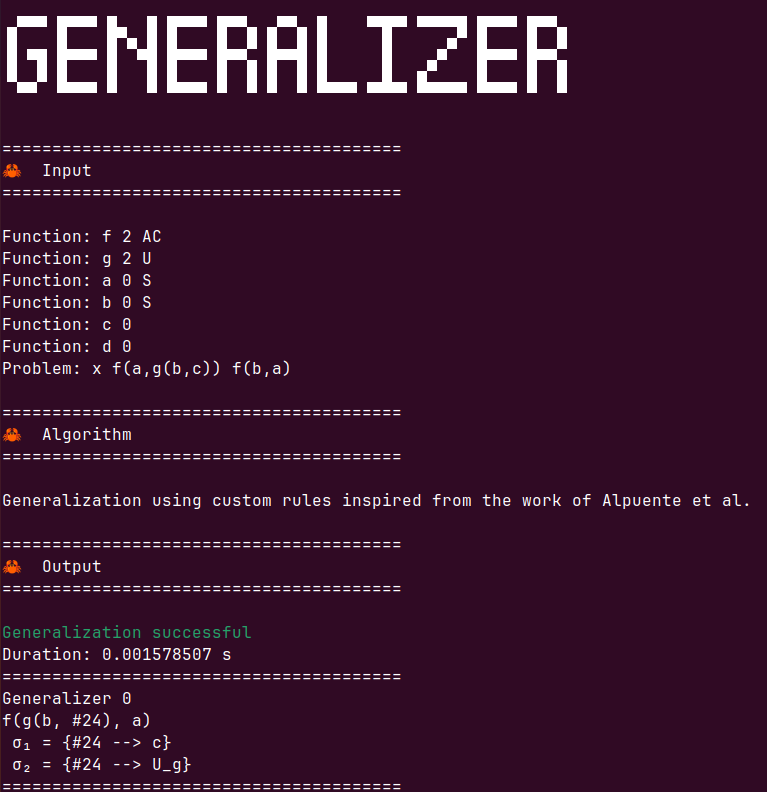
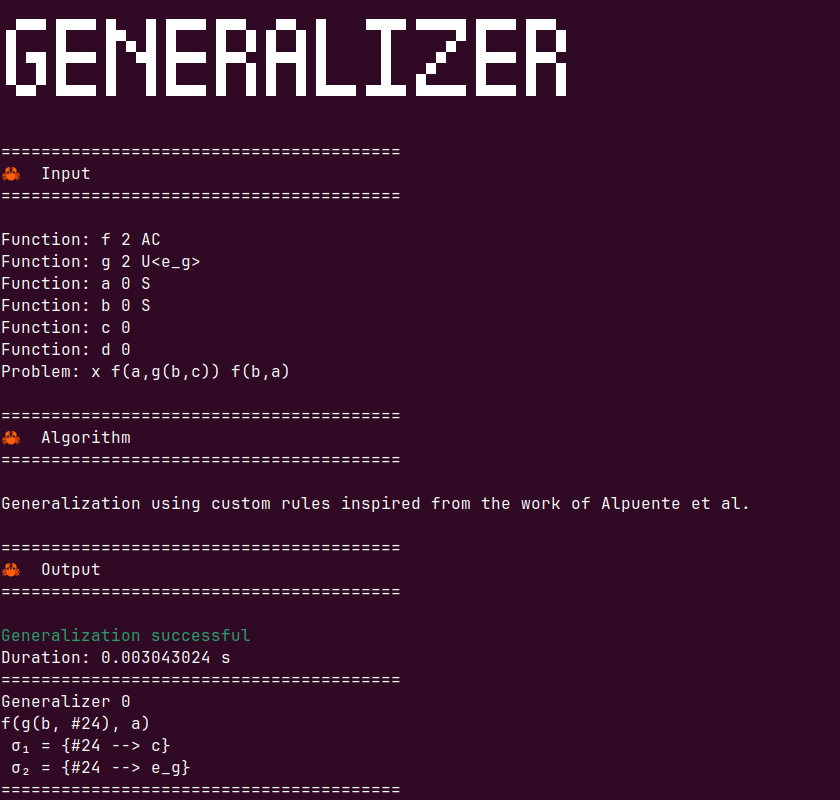
Unit element grammar update

diff --git a/src/interactions/composition/interaction_to_term.rs b/src/interactions/composition/interaction_to_term.rs
@@ -13,7 +13,7 @@ impl Interaction{
     pub fn to_term(&self,guideline: &Guideline,axioms: &Vec<Axioms>)->Term{
         match &self.clone(){
             Interaction::Empty =>{
-                let sig = FunctionSignature::new(self.to_string(),0,vec![]);
+                let sig = FunctionSignature::new(self.to_string(),0,vec![],None);
                 let f = Function::new(&sig,&vec![]);
                 Term::Function(f)
             },
@@ -21,7 +21,7 @@ impl Interaction{
 
                 let label = format!("Vp({},{})",a1.action_label(),a2.action_label());
 
-                let sig = FunctionSignature::new(label,0,vec![]);
+                let sig = FunctionSignature::new(label,0,vec![],None);
                 let f = Function::new(&sig,&vec![]);
                 Term::Function(f)
             },
@@ -30,15 +30,15 @@ impl Interaction{
                 let sig = if let Some(g) = a.gate_id{
 
                     if guideline.map.contains_key(&g){
-                        FunctionSignature::new(g.to_string(),0,vec![Axioms::SpecialConst])
+                        FunctionSignature::new(g.to_string(),0,vec![Axioms::SpecialConst],None)
                     }
                     else{
-                        FunctionSignature::new(a.action_label(),0,vec![])
+                        FunctionSignature::new(a.action_label(),0,vec![],None)
                     }
 
                 }
                 else{
-                     FunctionSignature::new(a.action_label(),0,vec![])
+                     FunctionSignature::new(a.action_label(),0,vec![],None)
                 };
 
 
@@ -48,7 +48,7 @@ impl Interaction{
             Interaction::LoopS(box1)=>{
                let i1 = *box1.clone();
 
-                let loop_sig: FunctionSignature = FunctionSignature::new("loopS".to_string(), 1, vec![]);
+                let loop_sig: FunctionSignature = FunctionSignature::new("loopS".to_string(), 1, vec![],None);
 
 
                 let f = Function::new(&loop_sig, &vec![i1.to_term(&guideline,axioms)]);
@@ -60,13 +60,13 @@ impl Interaction{
                 let i2 = *box2.clone();
 
                 let seq_sig: FunctionSignature = if axioms.contains(&Axioms::A) && axioms.contains(&Axioms::U){
-                     FunctionSignature::new("seq".to_string(), 2, vec![Axioms::A, Axioms::U])
+                     FunctionSignature::new("seq".to_string(), 2, vec![Axioms::A, Axioms::U],Some("Empty".to_string()))
                 }
                 else if axioms.contains(&Axioms::A) && !axioms.contains(&Axioms::U){
-                     FunctionSignature::new("seq".to_string(), 2, vec![Axioms::A])
+                     FunctionSignature::new("seq".to_string(), 2, vec![Axioms::A],None)
                 }
                 else{
-                     FunctionSignature::new("seq".to_string(), 2, vec![])
+                     FunctionSignature::new("seq".to_string(), 2, vec![],None)
                 };
 
 
@@ -81,7 +81,14 @@ impl Interaction{
 
 
                 //let par_sig: FunctionSignature = FunctionSignature::new("par".to_string(), 2, vec![Axioms::A, Axioms::U]);
-                let par_sig: FunctionSignature = FunctionSignature::new("par".to_string(), 2, axioms.clone());
+                let par_sig: FunctionSignature = if axioms.contains(&Axioms::U){
+                    FunctionSignature::new("par".to_string(), 2, axioms.clone(),Some("Empty".to_string()))
+                    
+                }
+                else{
+                    FunctionSignature::new("par".to_string(), 2, axioms.clone(),None)
+                };
+                
 
                 let f  = Function::new(&par_sig, &vec![i1.to_term(guideline,axioms), i2.to_term(guideline,axioms)]);
 
@@ -92,16 +99,16 @@ impl Interaction{
                 let i2 = *box2.clone();
 
                 let alt_sig: FunctionSignature = if axioms.contains(&Axioms::A) && axioms.contains(&Axioms::C){
-                    FunctionSignature::new("alt".to_string(), 2, vec![Axioms::A,Axioms::C])
+                    FunctionSignature::new("alt".to_string(), 2, vec![Axioms::A,Axioms::C],None)
                 }
                 else if axioms.contains(&Axioms::A) && !axioms.contains(&Axioms::C){
-                    FunctionSignature::new("alt".to_string(), 2, vec![Axioms::A])
+                    FunctionSignature::new("alt".to_string(), 2, vec![Axioms::A],None)
                 }
                 else if !axioms.contains(&Axioms::A) && axioms.contains(&Axioms::C){
-                    FunctionSignature::new("alt".to_string(), 2, vec![Axioms::C])
+                    FunctionSignature::new("alt".to_string(), 2, vec![Axioms::C],None)
                 }
                 else{
-                    FunctionSignature::new("alt".to_string(), 2, vec![])
+                    FunctionSignature::new("alt".to_string(), 2, vec![],None)
                 };
 
                 //let alt_sig: FunctionSignature = FunctionSignature::new("alt".to_string(), 2, vec![Axioms::A]);
@@ -115,7 +122,7 @@ impl Interaction{
                 let i1 = *box1.clone();
                 let i2 = *box2.clone();
 
-                let tensor_sig: FunctionSignature = FunctionSignature::new("tensor".to_string(), 2, axioms.clone());
+                let tensor_sig: FunctionSignature = FunctionSignature::new("tensor".to_string(), 2, axioms.clone(),Some("Empty".to_string()));
 
 
                 let f  = Function::new(&tensor_sig, &vec![i1.to_term(&guideline,axioms), i2.to_term(&guideline,axioms)]);

diff --git a/src/terms/parsing/string_parser.rs b/src/terms/parsing/string_parser.rs
@@ -36,6 +36,7 @@ pub fn parse_function(unparsed_function: &Pair<Rule>) -> Result<FunctionSignatur
     let mut name = String::from("");
     let mut arity: usize = 0;
     let mut axioms = Vec::new();
+    let mut unit_symbol = None;
 
     for pair in pairs_inner {
         if pair.as_rule() == Rule::DCL_NAME{
@@ -45,7 +46,7 @@ pub fn parse_function(unparsed_function: &Pair<Rule>) -> Result<FunctionSignatur
             let arity_str = pair.as_str().trim();
             arity = arity_str.parse().unwrap();
         }
-        //axioms later...
+
 
         if pair.as_rule() == Rule::DCL_AXIOMS{
             let axiom_str = pair.as_str().trim();
@@ -77,6 +78,14 @@ pub fn parse_function(unparsed_function: &Pair<Rule>) -> Result<FunctionSignatur
                 if arity<2{
                     panic!("Functions having unit element must be of arity greater or equal than 2");
                 }
+                let start = axiom_str.find("U<").expect("Unit symbol not found");
+                let unit = axiom_str[start+2..].to_string();
+                if unit.is_empty(){
+                    panic!("Unit symbol not found");
+                }
+                let end = unit[start..].find(">").expect("Unit symbol not found");
+                unit_symbol = Some(unit[..end].to_string());
+
                 axioms.push(Axioms::U);
             }
 
@@ -84,7 +93,7 @@ pub fn parse_function(unparsed_function: &Pair<Rule>) -> Result<FunctionSignatur
 
 
     }
-    Ok(FunctionSignature::new(name, arity, axioms))
+    Ok(FunctionSignature::new(name, arity, axioms, unit_symbol))
 }
 
 pub fn parse_problem(unparsed_problem: &Pair<Rule>) -> Result<(String,String),String> {

diff --git a/src/terms/function.rs b/src/terms/function.rs
@@ -14,6 +14,7 @@ pub struct FunctionSignature {
     pub name: String,
     pub arity: usize,
     pub axioms: Vec<Axioms>,
+    pub unit_symbol: Option<String>
 }
 #[derive(Clone, PartialEq, Debug, Eq, Hash)]
 pub struct Function {
@@ -25,11 +26,13 @@ pub type Signature = Vec<FunctionSignature>;
 
 
 impl FunctionSignature {
-    pub fn new(name: String, arity: usize,axioms: Vec<Axioms>) -> FunctionSignature {
-        FunctionSignature{name, arity,axioms}
+    pub fn new(name: String, arity: usize,axioms: Vec<Axioms>,unit: Option<String>) -> FunctionSignature {
+        FunctionSignature{name, arity,axioms, unit_symbol: unit}
     }
 
+    /*
     pub fn get_unit(&self)->Term{
+
 
         match self.name.as_str(){
             "seq"|"par"|"tensor"=>{
@@ -44,6 +47,24 @@ impl FunctionSignature {
             }
         }
 
+    }
+
+     */
+
+    pub fn get_unit(&self)->Term{
+
+        match &self.unit_symbol {
+            Some(unit)=>{
+                let name = format!("{}", unit);
+                let sig = FunctionSignature::new(name,0,vec![],None);
+                Term::Function(Function::new(&sig,&vec![]))
+            },
+            None=>{
+                let name = format!("U_{}", self.name);
+                let sig = FunctionSignature::new(name,0,vec![],None);
+                Term::Function(Function::new(&sig,&vec![]))
+            }
+        }
     }
 
 }

diff --git a/Benchmark Composition/maude_mutation/inter_random_rewrite.py b/Benchmark Composition/maude_mutation/inter_random_rewrite.py
@@ -14,14 +14,14 @@ m = maude.getCurrentModule()
 t = m.parseTerm(sys.argv[1])
 nb_rewrites = int(sys.argv[2])
 
-strat_str = 'R1 | R2'
-strat = m.parseStrategy(strat_str)
-
-solutions = None
+rules = ['R1','R2']
 
 for n in range(1,nb_rewrites+1):
-    solutions = t.srewrite(strat,False)
-    (t,temp) = random.choice(list(solutions))
+     r = random.choice(rules)
+     strat = m.parseStrategy(r)
 
+     solutions = list(t.srewrite(strat,False))
+     if len(solutions) != 0:
+     	t = (random.choice(solutions))[0]
 
 print(t)

diff --git a/readme/anti-unification.md b/readme/anti-unification.md
@@ -52,7 +52,7 @@ provide a more precise specification of binary operators (of `<arity>` 2) or con
 For a binary function symbol `f`, the `<Axioms>` field can be a string that contains a subset of the letters in `{A,C,U}`. If it contains:
 - `A`, then the operator `f` is associative i.e., one considers the axiom `f(x,f(y,z))≈ f(f(x,y),z)`.
 - `C`, then the operator `f` is commutative i.e., one considers the axiom `f(x,y)≈ f(y,x)`.
-- `U`, then the operator `f` has a neutral element (TODO:how is the neutral element denoted ? can two different operators have the same neutral element ?) i.e., one considers the axiom `f(x,e)≈x` and `f(e,x)≈ x`.
+- `U<e>`, then the operator `f` has a neutral element `e` (which is a string representing a constant that may or may not be declared. In case `e` is not declared, then `U<e>` count as a declaration of the constant symbol `e`) i.e., one considers the axiom `f(x,e)≈x` and `f(e,x)≈ x`.
 
 
 For example to declare a function symbol `f` which is associative, we write:
@@ -64,7 +64,7 @@ Function: f 2 A
 An for a function `g` that is associative, commutative with unit, we write:
 
 ```
-Function: g 2 ACU
+Function: g 2 ACU<e_g>
 ```
 
 Other combinations like AU (associative-unit) or CU(commutative-unit) are also possible. The order of the charaters `A`, `C` or `U` do not matter.
@@ -101,7 +101,7 @@ contains the following problem:
 
 ```
 Function: f 2 AC
-Function: g 2 U
+Function: g 2 U<e_g>
 Function: a 0 S
 Function: b 0 S
 Function: c 0
